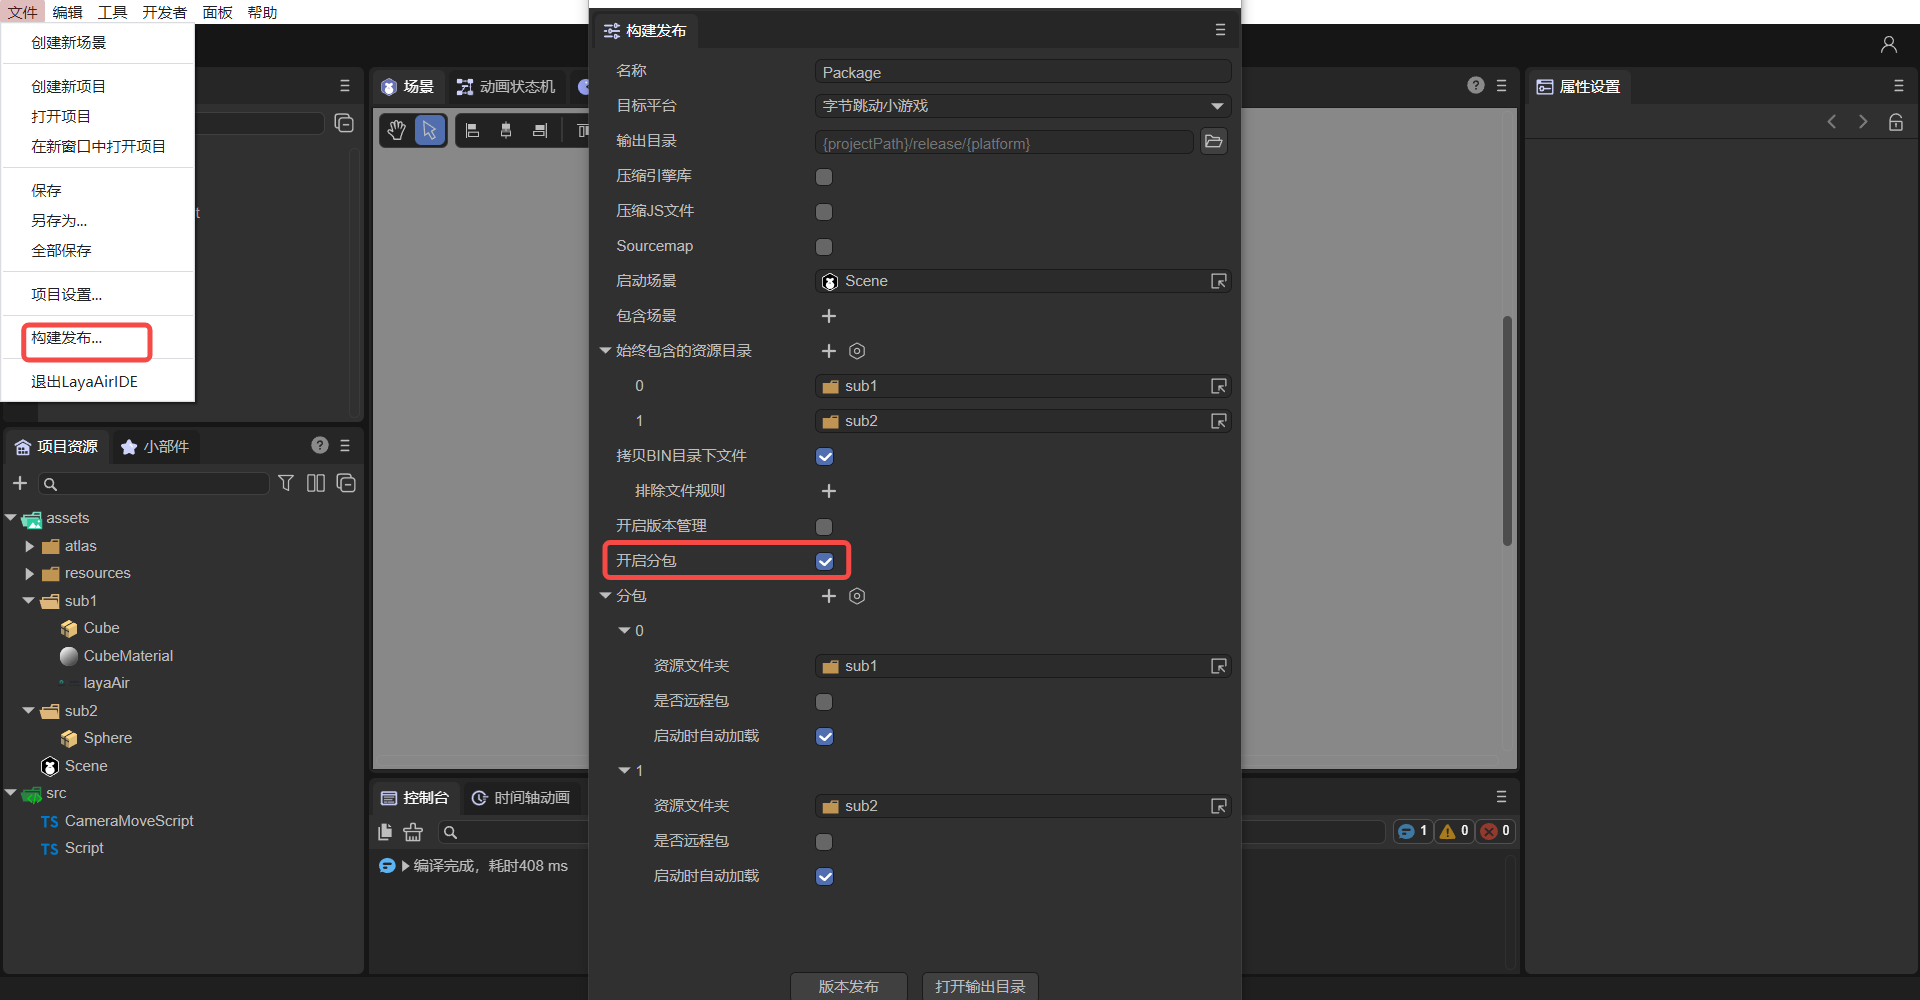
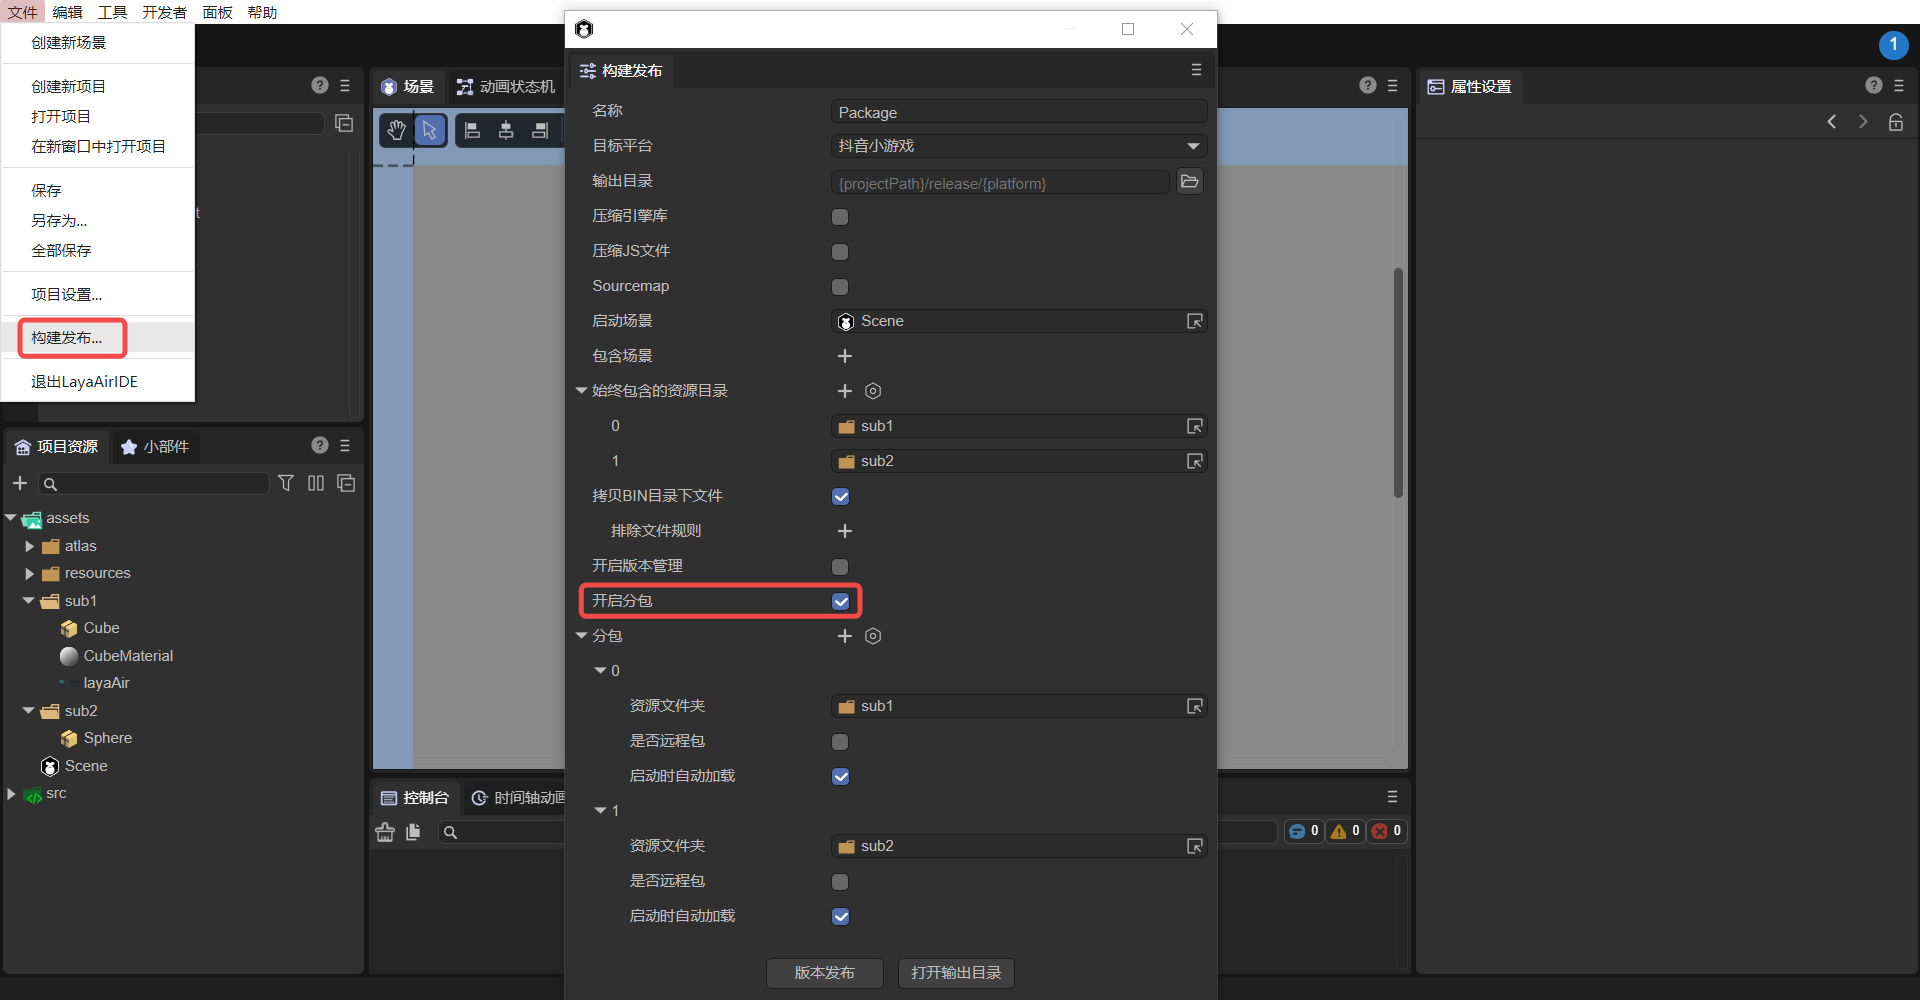
“字节跳动”相关改为“抖音”（图片）

diff --git a/released/miniGame/byteDance/readme.md b/released/miniGame/byteDance/readme.md
@@ -10,7 +10,7 @@
 
 小游戏有无需下载、玩法简单等特性，与图文、视频等场景有着天然的搭配性。全产品矩阵以内容分发为核心，通过内容带动小游戏分发，由内容为小游戏带量以及裂变。
 
-推荐要看一看抖音小游戏的[官方文档](https://developer.open-douyin.com/docs/resource/zh-CN/mini-game/guide/minigame/introduction/)，LayaAir引擎的文档更多的是引擎相关的，当然也会混合了一些小游戏[接口](https://developer.open-douyin.com/docs/resource/zh-CN/mini-game/develop/api/mini-game/bytedance-mini-game)的应用介绍，但是仔细看看官方文档肯定没错。
+推荐要看一看抖音小游戏的[官方文档](https://developer.open-douyin.com/docs/resource/zh-CN/mini-game/guide/minigame/introduction/)，LayaAir引擎的文档更多的是引擎相关的，当然也会混合了一些小游戏[接口](https://developer.open-douyin.com/docs/resource/zh-CN/mini-game/develop/api/overview)的应用介绍，但是仔细看看官方文档肯定没错。
 
 **下载并安装小游戏开发者工具**
 
@@ -64,7 +64,7 @@ resources资源目录和资源文件Scene.js，小游戏由于初始包的限制
 
 
 
-## 三、用小游戏开发工具创建小游戏项目
+## 三、用抖音开发者工具创建小游戏项目
 
 
 
